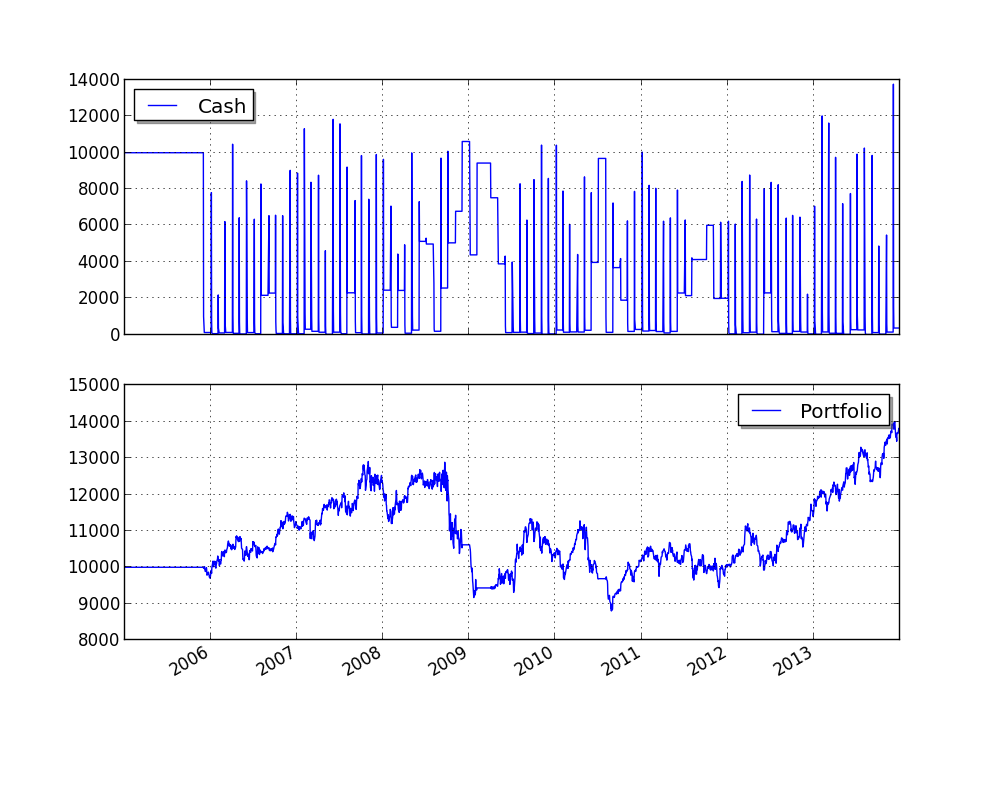
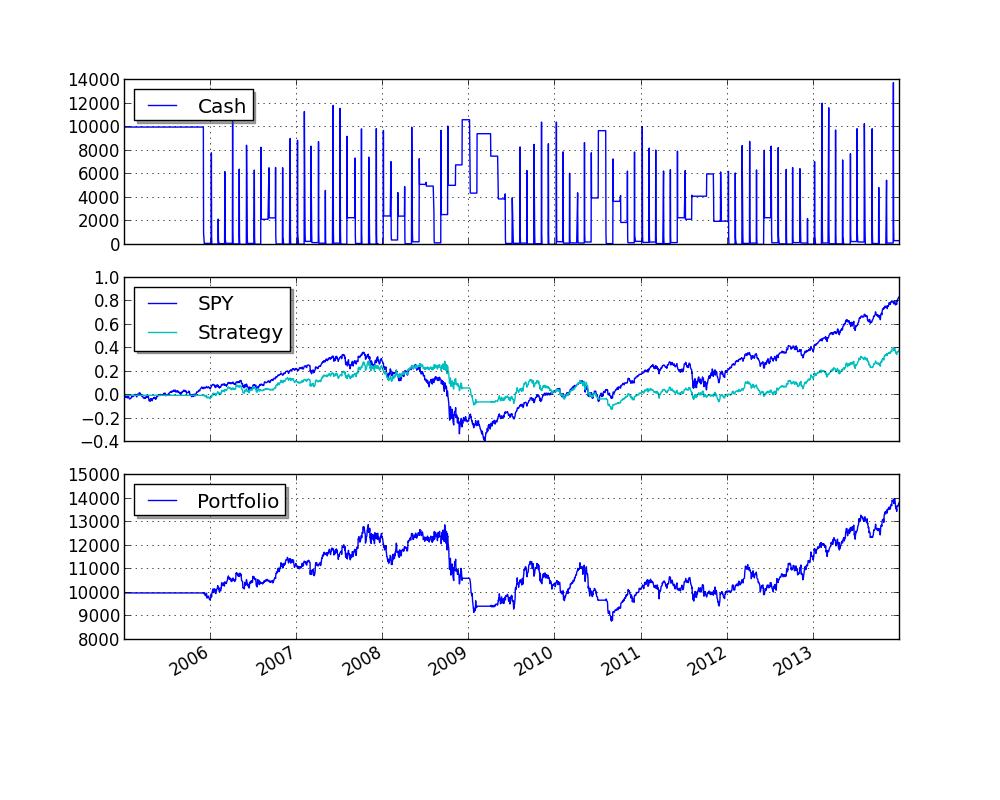
Added getPriceDataSeries and getPrice to BarDataSeries and Bar objects.

Changed region(s): [[0.062, 0.125, 0.899, 0.7812]]

diff --git a/samples/market_timing.py b/samples/market_timing.py
@@ -2,7 +2,9 @@ from pyalgotrade import strategy
 from pyalgotrade import plotter
 from pyalgotrade.tools import yahoofinance
 from pyalgotrade.technical import ma
+from pyalgotrade.technical import cumret
 from pyalgotrade.stratanalyzer import sharpe
+from pyalgotrade.stratanalyzer import returns
 
 
 class MarketTiming(strategy.BacktestingStrategy):
@@ -16,7 +18,7 @@ class MarketTiming(strategy.BacktestingStrategy):
         self.__sma = {}
         for assetClass in instrumentsByClass:
             for instrument in instrumentsByClass[assetClass]:
-                priceDS = feed[instrument].getAdjCloseDataSeries()
+                priceDS = feed[instrument].getPriceDataSeries()
                 self.__sma[instrument] = ma.SMA(priceDS, 200)
 
     def _shouldRebalance(self, dateTime):
@@ -26,16 +28,16 @@ class MarketTiming(strategy.BacktestingStrategy):
         # If the price is above the SMA, then this instrument doesn't rank at
         # all.
         smas = self.__sma[instrument]
-        price = self._getLastPrice(instrument)
+        price = self.getLastPrice(instrument)
         if smas[-1] is None or price < smas[-1]:
             return None
 
         # Rank based on 20 day returns.
         ret = None
         lookBack = 20
-        adjCloseDS = self.getFeed()[instrument].getAdjCloseDataSeries()
-        if len(adjCloseDS) >= lookBack and smas[-1] is not None and smas[-1*lookBack] is not None:
-            ret = (adjCloseDS[-1] - adjCloseDS[-1*lookBack]) / float(adjCloseDS[-1*lookBack])
+        priceDS = self.getFeed()[instrument].getPriceDataSeries()
+        if len(priceDS) >= lookBack and smas[-1] is not None and smas[-1*lookBack] is not None:
+            ret = (priceDS[-1] - priceDS[-1*lookBack]) / float(priceDS[-1*lookBack])
         return ret
 
     def _getTopByClass(self, assetClass):
@@ -55,10 +57,6 @@ class MarketTiming(strategy.BacktestingStrategy):
             ret[assetClass] = self._getTopByClass(assetClass)
         return ret
 
-    def _getLastPrice(self, instrument):
-        lastBar = self.getFeed().getLastBar(instrument)
-        return lastBar.getAdjClose()
-
     def _placePendingOrders(self):
         remainingCash = self.getBroker().getCash() * 0.9 # Use less chash just in case price changes too much.
 
@@ -66,7 +64,7 @@ class MarketTiming(strategy.BacktestingStrategy):
             orderSize = self.__sharesToBuy[instrument]
             if orderSize > 0:
                 # Adjust the order size based on available cash.
-                lastPrice = self._getLastPrice(instrument)
+                lastPrice = self.getLastPrice(instrument)
                 cost = orderSize * lastPrice
                 while cost > remainingCash and orderSize > 0:
                     orderSize -= 1
@@ -84,7 +82,7 @@ class MarketTiming(strategy.BacktestingStrategy):
         totalEquity = self.getBroker().getEquity()
         positions = self.getBroker().getPositions()
         for instrument in self.getBroker().getPositions():
-            posSize = positions[instrument] * self._getLastPrice(instrument) / totalEquity * 100
+            posSize = positions[instrument] * self.getLastPrice(instrument) / totalEquity * 100
             self.info("%s - %0.2f %%" % (instrument, posSize))
 
     def _rebalance(self):
@@ -103,7 +101,7 @@ class MarketTiming(strategy.BacktestingStrategy):
             instrument = topByClass[assetClass]
             self.info("Best for class %s: %s" % (assetClass, instrument))
             if instrument is not None:
-                lastPrice = self._getLastPrice(instrument)
+                lastPrice = self.getLastPrice(instrument)
                 cashForInstrument = cashPerAssetClass - self.getBroker().getShares(instrument) * lastPrice
                 # This may yield a negative value and we have to reduce this
                 # position.
@@ -139,7 +137,7 @@ def main(plot):
     }
 
     # Download the bars.
-    instruments = []
+    instruments = ["SPY"]
     for assetClass in instrumentsByClass:
         instruments.extend(instrumentsByClass[assetClass])
     feed = yahoofinance.build_feed(instruments, 2005, 2013, "data", skipErrors=True)
@@ -147,10 +145,15 @@ def main(plot):
     strat = MarketTiming(feed, instrumentsByClass, initialCash)
     sharpeRatioAnalyzer = sharpe.SharpeRatio()
     strat.attachAnalyzer(sharpeRatioAnalyzer)
+    returnsAnalyzer = returns.Returns()
+    strat.attachAnalyzer(returnsAnalyzer)
 
     if plot:
         plt = plotter.StrategyPlotter(strat, False, False, True)
         plt.getOrCreateSubplot("cash").addCallback("Cash", lambda x: strat.getBroker().getCash())
+        # Plot strategy vs. SPY cumulative returns.
+        plt.getOrCreateSubplot("returns").addDataSeries("SPY", cumret.CumulativeReturn(feed["SPY"].getPriceDataSeries()))
+        plt.getOrCreateSubplot("returns").addDataSeries("Strategy", returnsAnalyzer.getCumulativeReturns())
 
     strat.run()
     print "Sharpe ratio: %.2f" % sharpeRatioAnalyzer.getSharpeRatio(0.05)

diff --git a/pyalgotrade/dataseries/bards.py b/pyalgotrade/dataseries/bards.py
@@ -37,20 +37,25 @@ class BarDataSeries(dataseries.SequenceDataSeries):
         self.__lowDS = dataseries.SequenceDataSeries(maxLen)
         self.__volumeDS = dataseries.SequenceDataSeries(maxLen)
         self.__adjCloseDS = dataseries.SequenceDataSeries(maxLen)
+        self.__useAdjustedValues = False
 
-    def append(self, value):
-        self.appendWithDateTime(value.getDateTime(), value)
+    def setUseAdjustedValues(self, useAdjusted):
+        self.__useAdjustedValues = useAdjusted
 
-    def appendWithDateTime(self, dateTime, value):
+    def append(self, bar):
+        self.appendWithDateTime(bar.getDateTime(), bar)
+
+    def appendWithDateTime(self, dateTime, bar):
         assert(dateTime is not None)
-        assert(value is not None)
-        dataseries.SequenceDataSeries.appendWithDateTime(self, dateTime, value)
-        self.__openDS.appendWithDateTime(dateTime, value.getOpen())
-        self.__closeDS.appendWithDateTime(dateTime, value.getClose())
-        self.__highDS.appendWithDateTime(dateTime, value.getHigh())
-        self.__lowDS.appendWithDateTime(dateTime, value.getLow())
-        self.__volumeDS.appendWithDateTime(dateTime, value.getVolume())
-        self.__adjCloseDS.appendWithDateTime(dateTime, value.getAdjClose())
+        assert(bar is not None)
+        bar.setUseAdjustedValue(self.__useAdjustedValues)
+        dataseries.SequenceDataSeries.appendWithDateTime(self, dateTime, bar)
+        self.__openDS.appendWithDateTime(dateTime, bar.getOpen())
+        self.__closeDS.appendWithDateTime(dateTime, bar.getClose())
+        self.__highDS.appendWithDateTime(dateTime, bar.getHigh())
+        self.__lowDS.appendWithDateTime(dateTime, bar.getLow())
+        self.__volumeDS.appendWithDateTime(dateTime, bar.getVolume())
+        self.__adjCloseDS.appendWithDateTime(dateTime, bar.getAdjClose())
 
     def getOpenDataSeries(self):
         """Returns a :class:`pyalgotrade.dataseries.DataSeries` with the open prices."""
@@ -75,3 +80,10 @@ class BarDataSeries(dataseries.SequenceDataSeries):
     def getAdjCloseDataSeries(self):
         """Returns a :class:`pyalgotrade.dataseries.DataSeries` with the adjusted close prices."""
         return self.__adjCloseDS
+
+    def getPriceDataSeries(self):
+        """Returns a :class:`pyalgotrade.dataseries.DataSeries` with the close or adjusted close prices."""
+        if self.__useAdjustedValues:
+            return self.__adjCloseDS
+        else:
+            return self.__closeDS

diff --git a/pyalgotrade/bar.py b/pyalgotrade/bar.py
@@ -53,6 +53,10 @@ class Bar(object):
     __metaclass__ = abc.ABCMeta
 
     @abc.abstractmethod
+    def setUseAdjustedValue(self, useAdjusted):
+        raise NotImplementedError()
+
+    @abc.abstractmethod
     def getDateTime(self):
         """Returns the :class:`datetime.datetime`."""
         raise NotImplementedError()
@@ -96,10 +100,15 @@ class Bar(object):
         """Returns the typical price."""
         return (self.getHigh() + self.getLow() + self.getClose()) / 3.0
 
+    @abc.abstractmethod
+    def getPrice(self):
+        """Returns the closing or adjusted closing price."""
+        raise NotImplementedError()
+
 
 class BasicBar(Bar):
     # Optimization to reduce memory footprint.
-    __slots__ = ('__dateTime', '__open', '__close', '__high', '__low', '__volume', '__adjClose', '__frequency')
+    __slots__ = ('__dateTime', '__open', '__close', '__high', '__low', '__volume', '__adjClose', '__frequency', '__useAdjustedValue')
 
     def __init__(self, dateTime, open_, high, low, close, volume, adjClose, frequency):
         if high < open_:
@@ -123,12 +132,18 @@ class BasicBar(Bar):
         self.__volume = volume
         self.__adjClose = adjClose
         self.__frequency = frequency
+        self.__useAdjustedValue = False
 
     def __setstate__(self, state):
-        (self.__dateTime, self.__open, self.__close, self.__high, self.__low, self.__volume, self.__adjClose, self.__frequency) = state
+        (self.__dateTime, self.__open, self.__close, self.__high, self.__low, self.__volume, self.__adjClose, self.__frequency, self.__useAdjustedValue) = state
 
     def __getstate__(self):
-        return (self.__dateTime, self.__open, self.__close, self.__high, self.__low, self.__volume, self.__adjClose, self.__frequency)
+        return (self.__dateTime, self.__open, self.__close, self.__high, self.__low, self.__volume, self.__adjClose, self.__frequency, self.__useAdjustedValue)
+
+    def setUseAdjustedValue(self, useAdjusted):
+        if useAdjusted and self.__adjClose is None:
+            raise Exception("Adjusted close is not available")
+        self.__useAdjustedValue = useAdjusted
 
     def getDateTime(self):
         return self.__dateTime
@@ -188,6 +203,12 @@ class BasicBar(Bar):
 
     def getFrequency(self):
         return self.__frequency
+
+    def getPrice(self):
+        if self.__useAdjustedValue:
+            return self.__adjClose
+        else:
+            return self.__close
 
 
 class Bars(object):

diff --git a/samples/rsi2.py b/samples/rsi2.py
@@ -10,7 +10,7 @@ class RSI2(strategy.BacktestingStrategy):
         self.__instrument = instrument
         # We'll use adjusted close values instead of regular close values.
         self.setUseAdjustedValues(True)
-        self.__priceDS = feed[instrument].getAdjCloseDataSeries()
+        self.__priceDS = feed[instrument].getPriceDataSeries()
         self.__entrySMA = ma.SMA(self.__priceDS, entrySMA)
         self.__exitSMA = ma.SMA(self.__priceDS, exitSMA)
         self.__rsi = rsi.RSI(self.__priceDS, rsiPeriod)
@@ -62,20 +62,20 @@ class RSI2(strategy.BacktestingStrategy):
                 self.__shortPos.exitMarket()
         else:
             if self.enterLongSignal(bar):
-                shares = int(self.getBroker().getCash() * 0.9 / bars[self.__instrument].getClose())
+                shares = int(self.getBroker().getCash() * 0.9 / bars[self.__instrument].getPrice())
                 self.__longPos = self.enterLong(self.__instrument, shares, True)
             elif self.enterShortSignal(bar):
-                shares = int(self.getBroker().getCash() * 0.9 / bars[self.__instrument].getClose())
+                shares = int(self.getBroker().getCash() * 0.9 / bars[self.__instrument].getPrice())
                 self.__shortPos = self.enterShort(self.__instrument, shares, True)
 
     def enterLongSignal(self, bar):
-        return bar.getAdjClose() > self.__entrySMA[-1] and self.__rsi[-1] <= self.__overSoldThreshold
+        return bar.getPrice() > self.__entrySMA[-1] and self.__rsi[-1] <= self.__overSoldThreshold
 
     def exitLongSignal(self):
         return cross.cross_above(self.__priceDS, self.__exitSMA)
 
     def enterShortSignal(self, bar):
-        return bar.getAdjClose() < self.__entrySMA[-1] and self.__rsi[-1] >= self.__overBoughtThreshold
+        return bar.getPrice() < self.__entrySMA[-1] and self.__rsi[-1] >= self.__overBoughtThreshold
 
     def exitShortSignal(self):
         return cross.cross_below(self.__priceDS, self.__exitSMA)

diff --git a/samples/sma_crossover.py b/samples/sma_crossover.py
@@ -10,8 +10,8 @@ class SMACrossOver(strategy.BacktestingStrategy):
         self.__position = None
         # We'll use adjusted close values instead of regular close values.
         self.setUseAdjustedValues(True)
-        self.__adjClose = feed[instrument].getAdjCloseDataSeries()
-        self.__sma = ma.SMA(self.__adjClose, smaPeriod)
+        self.__prices = feed[instrument].getPriceDataSeries()
+        self.__sma = ma.SMA(self.__prices, smaPeriod)
 
     def getSMA(self):
         return self.__sma
@@ -29,10 +29,10 @@ class SMACrossOver(strategy.BacktestingStrategy):
     def onBars(self, bars):
         # If a position was not opened, check if we should enter a long position.
         if self.__position is None:
-            if cross.cross_above(self.__adjClose, self.__sma) > 0:
-                shares = int(self.getBroker().getCash() * 0.9 / bars[self.__instrument].getClose())
+            if cross.cross_above(self.__prices, self.__sma) > 0:
+                shares = int(self.getBroker().getCash() * 0.9 / bars[self.__instrument].getPrice())
                 # Enter a buy market order. The order is good till canceled.
                 self.__position = self.enterLong(self.__instrument, shares, True)
         # Check if we have to exit the position.
-        elif not self.__position.exitActive() and cross.cross_below(self.__adjClose, self.__sma) > 0:
+        elif not self.__position.exitActive() and cross.cross_below(self.__prices, self.__sma) > 0:
             self.__position.exitMarket()

diff --git a/samples/tutorial-4.py b/samples/tutorial-4.py
@@ -10,7 +10,7 @@ class MyStrategy(strategy.BacktestingStrategy):
         self.__instrument = instrument
         # We'll use adjusted close values instead of regular close values.
         self.setUseAdjustedValues(True)
-        self.__sma = ma.SMA(feed[instrument].getAdjCloseDataSeries(), smaPeriod)
+        self.__sma = ma.SMA(feed[instrument].getPriceDataSeries(), smaPeriod)
 
     def onEnterOk(self, position):
         execInfo = position.getEntryOrder().getExecutionInfo()
@@ -36,11 +36,11 @@ class MyStrategy(strategy.BacktestingStrategy):
         bar = bars[self.__instrument]
         # If a position was not opened, check if we should enter a long position.
         if self.__position is None:
-            if bar.getAdjClose() > self.__sma[-1]:
+            if bar.getPrice() > self.__sma[-1]:
                 # Enter a buy market order for 10 shares. The order is good till canceled.
                 self.__position = self.enterLong(self.__instrument, 10, True)
         # Check if we have to exit the position.
-        elif bar.getAdjClose() < self.__sma[-1]:
+        elif bar.getPrice() < self.__sma[-1]:
             self.__position.exitMarket()
 
 

diff --git a/pyalgotrade/bitcoincharts/barfeed.py b/pyalgotrade/bitcoincharts/barfeed.py
@@ -48,6 +48,10 @@ class TradeBar(bar.Bar):
     def __getstate__(self):
         return (self.__dateTime, self.__price, self.__amount)
 
+    def setUseAdjustedValue(self, useAdjusted):
+        if useAdjusted:
+            raise Exception("Adjusted close is not available")
+
     def getDateTime(self):
         return self.__dateTime
 
@@ -67,11 +71,13 @@ class TradeBar(bar.Bar):
         return self.__amount
 
     def getAdjClose(self):
-        return self.__price
+        return None
 
     def getFrequency(self):
         return bar.Frequency.TRADE
 
+    def getPrice(self):
+        return self.__price
 
 # As described in http://www.bitcoincharts.com/about/markets-api/
 # unixtime has second precision so more than 1 trade in a second will trigger
@@ -141,7 +147,7 @@ class CSVTradeFeed(csvfeed.BarFeed):
         self.__unixTimeFix = UnixTimeFix()
 
     def barsHaveAdjClose(self):
-        return True
+        return False
 
     def addBarsFromCSV(self, path, instrument="BTC", timezone=None, fromDateTime=None, toDateTime=None):
         """Loads bars from a trades CSV formatted file.

diff --git a/pyalgotrade/barfeed/__init__.py b/pyalgotrade/barfeed/__init__.py
@@ -51,6 +51,16 @@ class BaseBarFeed(feed.BaseFeed):
         self.__lastBars = {}
         self.__frequency = frequency
         self.__prevDateTime = None
+        self.__useAdjustedValues = False
+
+    def setUseAdjustedValues(self, useAdjusted):
+        if useAdjusted and not self.barsHaveAdjClose():
+            raise Exception("The barfeed doesn't support adjusted close values")
+        # This is to affect future dataseries when they get created.
+        self.__useAdjustedValues = useAdjusted
+        # Update existing dataseries
+        for instrument in self.getRegisteredInstruments():
+            self.getDataSeries(instrument).setUseAdjustedValues(useAdjusted)
 
     @abc.abstractmethod
     def getCurrentDateTime(self):
@@ -72,7 +82,9 @@ class BaseBarFeed(feed.BaseFeed):
         raise NotImplementedError()
 
     def createDataSeries(self, key, maxLen):
-        return bards.BarDataSeries(maxLen)
+        ret = bards.BarDataSeries(maxLen)
+        ret.setUseAdjustedValues(self.__useAdjustedValues)
+        return ret
 
     def getNextValues(self):
         dateTime = None

diff --git a/pyalgotrade/bitstamp/barfeed.py b/pyalgotrade/bitstamp/barfeed.py
@@ -42,6 +42,10 @@ class TradeBar(bar.Bar):
     def __getstate__(self):
         return (self.__dateTime, self.__tradeId, self.__price, self.__amount)
 
+    def setUseAdjustedValue(self, useAdjusted):
+        if useAdjusted:
+            raise Exception("Adjusted close is not available")
+
     def getTradeId(self):
         return self.__tradeId
 
@@ -70,6 +74,9 @@ class TradeBar(bar.Bar):
         return None
 
     def getTypicalPrice(self):
+        return self.__price
+
+    def getPrice(self):
         return self.__price
 
 

diff --git a/pyalgotrade/strategy/__init__.py b/pyalgotrade/strategy/__init__.py
@@ -577,8 +577,7 @@ class BacktestingStrategy(BaseStrategy):
         return self.__useAdjustedValues
 
     def setUseAdjustedValues(self, useAdjusted):
-        if not self.getFeed().barsHaveAdjClose():
-            raise Exception("The barfeed doesn't support adjusted close values")
+        self.getFeed().setUseAdjustedValues(useAdjusted)
         self.getBroker().setUseAdjustedValues(useAdjusted, True)
         self.__useAdjustedValues = useAdjusted
 
